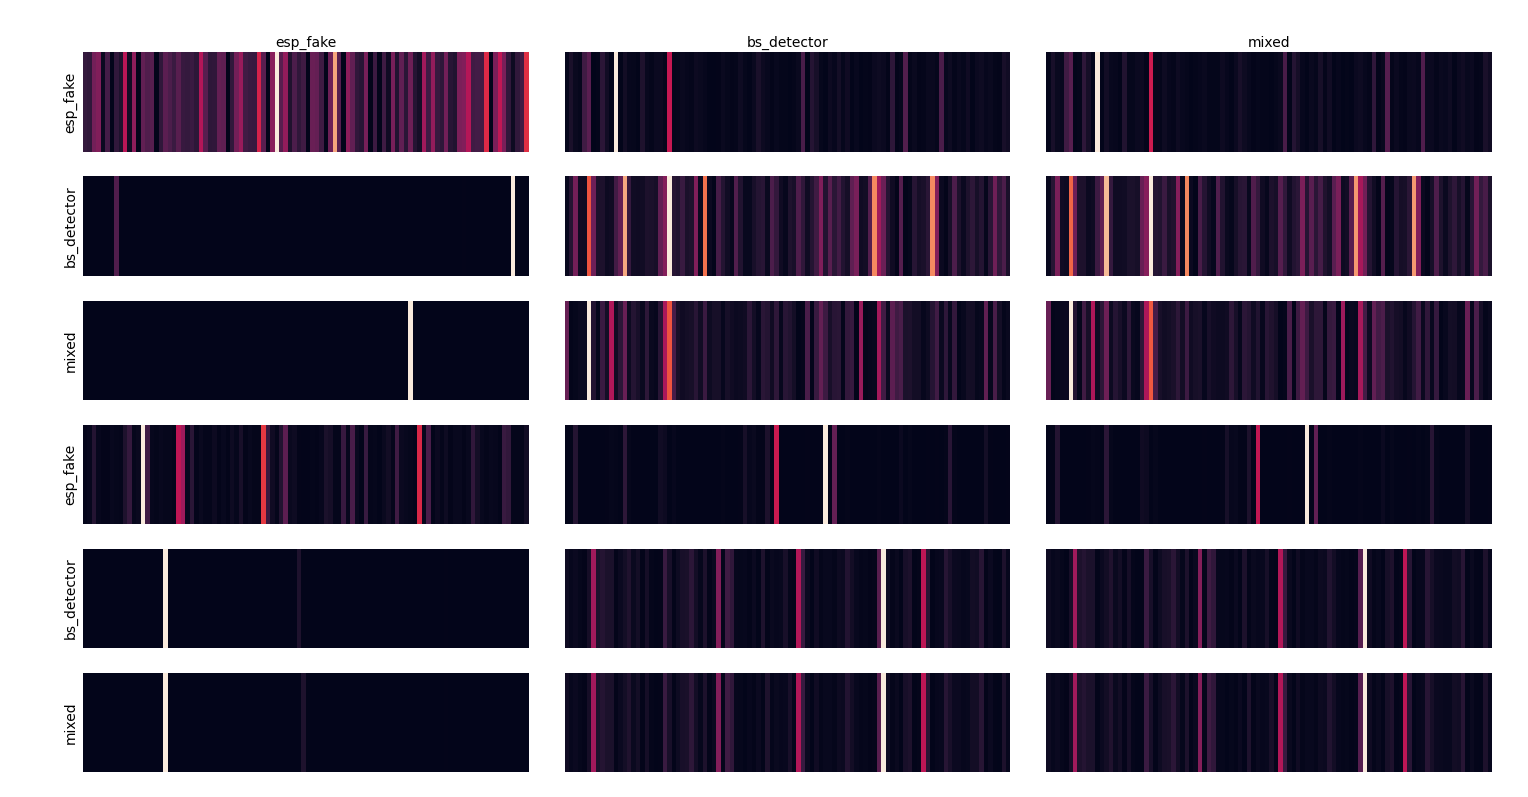
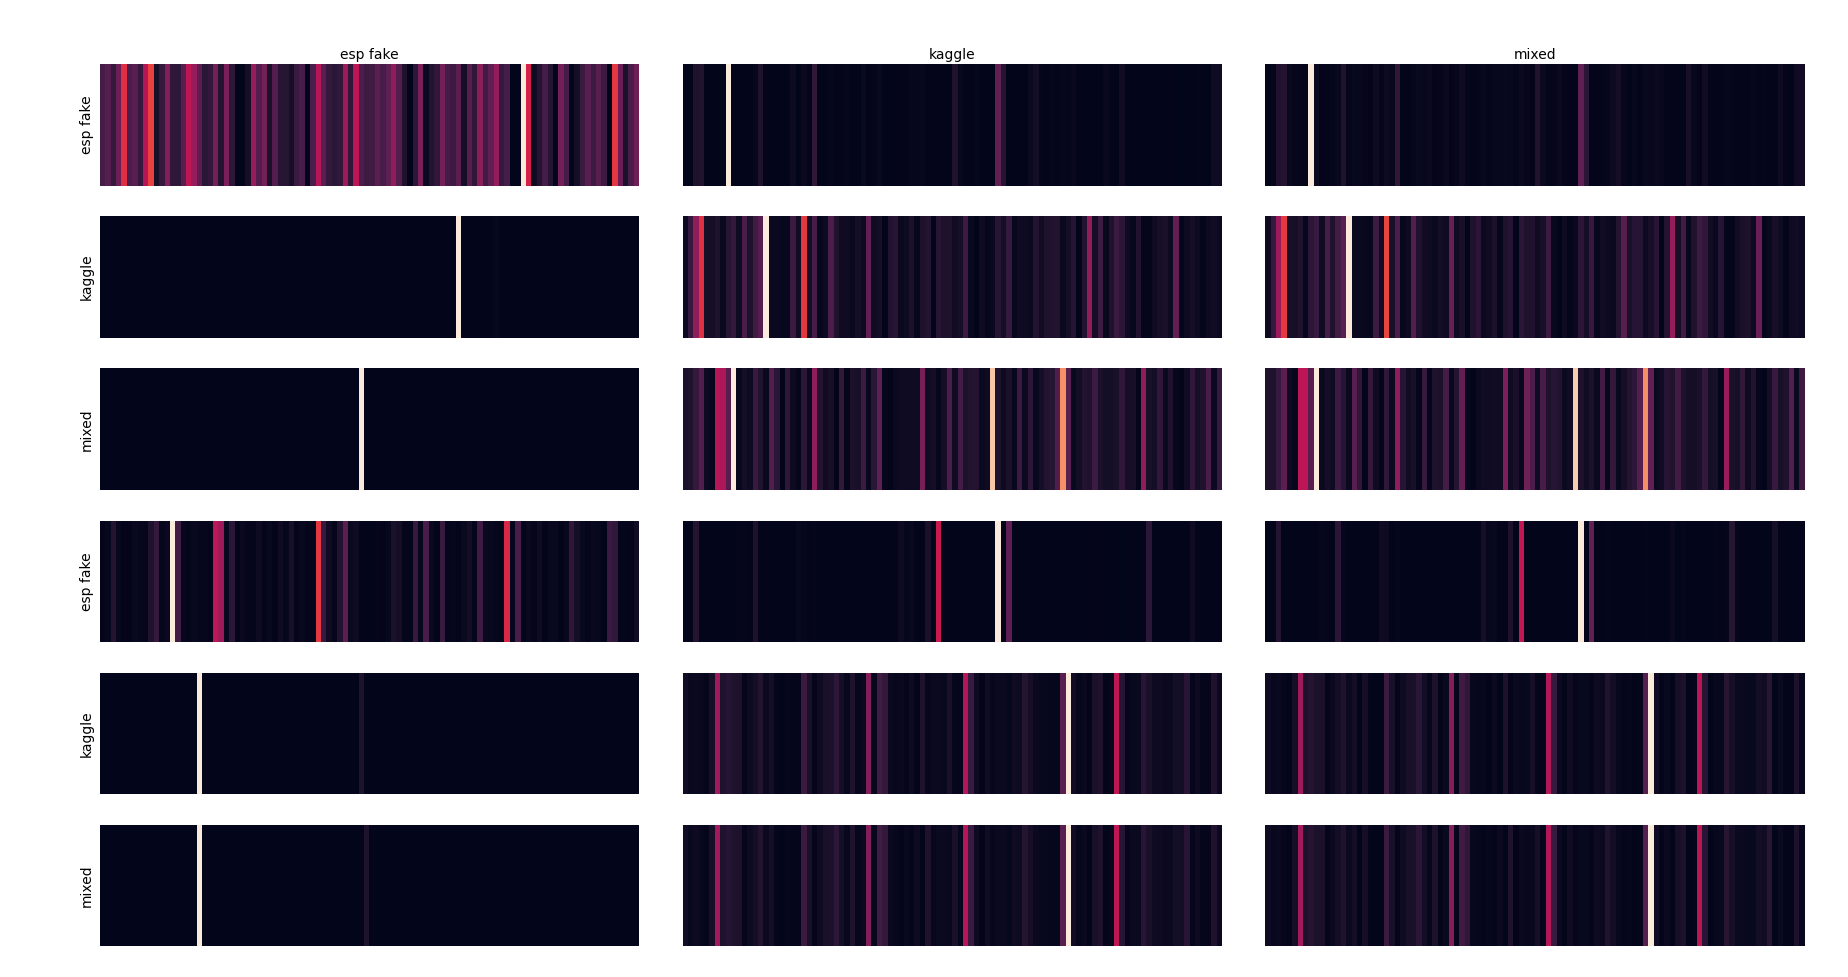
update heatmap

diff --git a/average_feature.py b/average_feature.py
@@ -2,6 +2,7 @@ import numpy as np
 import seaborn as sns
 import matplotlib.pyplot as plt
 
+
 def get_avrg_features(train_dataset_name, dataset_name, extraction_method, attribute):
     fold_idx = 0
     features = np.load(f'extracted_features/{train_dataset_name}_{extraction_method}_{dataset_name}/fold_{fold_idx}_X_train_{attribute}.npy')
@@ -13,6 +14,11 @@ def main():
     methods = ('lda', 'tf_idf')
     attribute = 'text'
     fig, axs = plt.subplots(3 * len(methods), 3)
+    dataset_name_mapping = {
+        'esp_fake': 'esp fake',
+        'bs_detector': 'kaggle',
+        'mixed': 'mixed'
+    }
 
     for i, extraction_method in enumerate(methods):
         for j, train_dataset_name in enumerate(('esp_fake', 'bs_detector', 'mixed')):
@@ -23,13 +29,12 @@ def main():
                 axs[i * 3 + j][k].grid(False)
                 sns.heatmap(np.expand_dims(avrg_features, 0), xticklabels=False, yticklabels=False, cbar=False, ax=axs[i * 3 + j][k])
                 if k == 0:
-                    axs[i * 3 + j][0].set_ylabel(train_dataset_name)
+                    axs[i * 3 + j][0].set_ylabel(dataset_name_mapping[train_dataset_name])
                 if j == 0 and i == 0:
-                    axs[i * 3 + j][k].xaxis.set_label_position('top') 
-                    axs[i * 3 + j][k].set_xlabel(dataset_name)
+                    axs[i * 3 + j][k].xaxis.set_label_position('top')
+                    axs[i * 3 + j][k].set_xlabel(dataset_name_mapping[dataset_name])
     fig.tight_layout()
     plt.show()
-
 
 
 if __name__ == '__main__':
